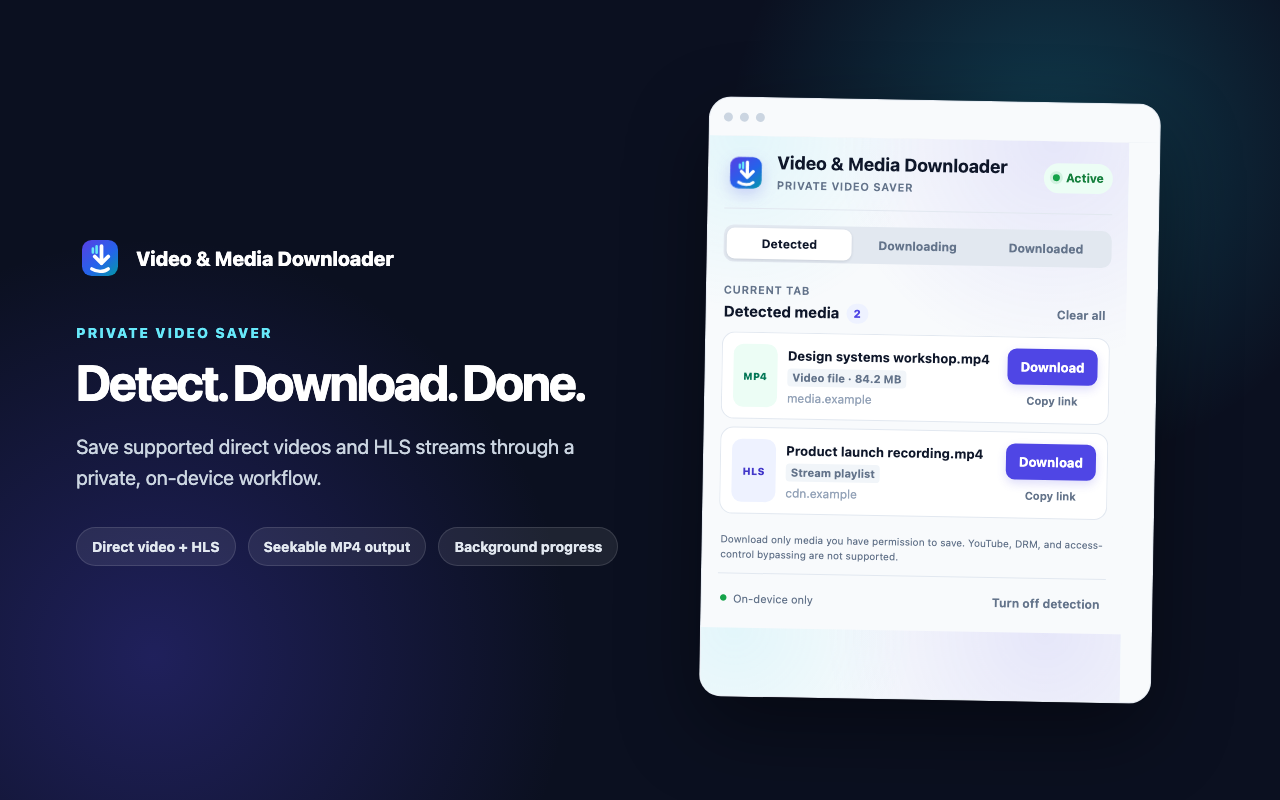
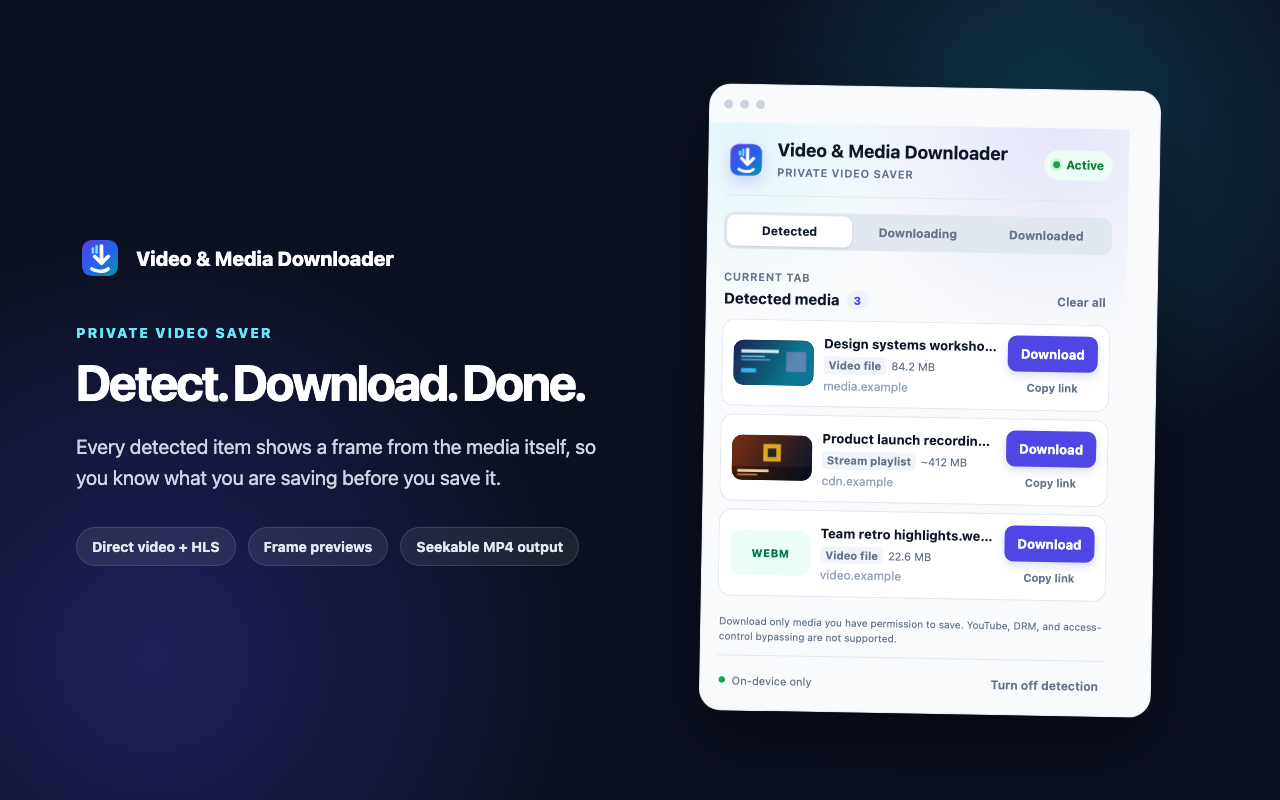
update screenshots and publish to firefox(reviewing)

diff --git a/store-assets/popup-preview.html b/store-assets/popup-preview.html
@@ -31,61 +31,144 @@
         document.querySelector(`#${name}-tab`).setAttribute("aria-selected", String(name === view));
       }
 
+      // Fictional media. The rows are built the way popup.js builds them, so a
+      // screenshot shows the real markup and stylesheet rather than a mock that
+      // drifts: a preview is an <img> inside the tile, the size is its own span
+      // beside the chips, and the job state is a class on .job-status.
       const items = view === "detected" ? [
         {
           action: "Download",
+          chips: ["Video file"],
           filename: "Design systems workshop.mp4",
           format: "MP4",
           host: "media.example",
-          meta: "Video file · 84.2 MB",
+          preview: "preview-frame-a.jpg",
+          size: "84.2 MB",
           type: "file"
         },
         {
           action: "Download",
+          chips: ["Stream playlist"],
           filename: "Product launch recording.mp4",
           format: "HLS",
           host: "cdn.example",
-          meta: "Stream playlist",
+          preview: "preview-frame-b.jpg",
+          size: "~412 MB",
           type: "playlist"
+        },
+        {
+          action: "Download",
+          chips: ["Video file"],
+          filename: "Team retro highlights.webm",
+          format: "WEBM",
+          host: "video.example",
+          size: "22.6 MB",
+          type: "file"
         }
       ] : [{
         action: view === "downloading" ? "63%" : "Again",
+        chips: view === "downloading"
+          ? ["Downloading", "Background"]
+          : ["Downloaded"],
         filename: "Product launch recording.mp4",
         format: "MP4",
         host: "cdn.example",
-        meta: view === "downloading" ? "Downloading · Background" : "Downloaded",
+        preview: "preview-frame-b.jpg",
         progress: view === "downloading" ? 63 : 100,
+        size: "412 MB",
+        state: view === "downloading" ? "downloading" : "complete",
         status: view === "downloading"
-          ? "Converting segment 38 of 60 to MP4…"
+          ? "Converting segment 38 of 60 to MP4… 1 min left"
           : "Saved to Downloads.",
         type: "file"
       }];
 
       document.querySelector("#count").textContent = String(items.length);
       const list = document.querySelector("#media-list");
+
       for (const item of items) {
         const row = document.createElement("li");
         row.className = "media-item";
-        row.innerHTML = `
-          <div class="format-tile ${item.type}">${item.format}</div>
-          <div class="media-details">
-            <div class="media-name">${item.filename}</div>
-            <div class="media-meta"><span class="meta-chip">${item.meta}</span></div>
-            <div class="media-host">${item.host}</div>
-          </div>
-          <div class="media-actions">
-            <button class="primary" type="button">${item.action}</button>
-            <button class="copy-button${view === "downloading" ? " cancel-button" : ""}" type="button">
-              ${view === "downloading" ? "Cancel" : "Copy link"}
-            </button>
-          </div>`;
-        if (item.status) {
-          row.insertAdjacentHTML("beforeend", `
-            <div class="job-status ${view === "downloaded" ? "complete" : ""}">
-              <span>${item.status}</span>
-              <span class="job-progress"><span style="width:${item.progress}%"></span></span>
-            </div>`);
+
+        const format = document.createElement("div");
+        format.className = `format-tile ${item.type}`;
+        if (item.preview) {
+          const thumbnail = document.createElement("img");
+          thumbnail.alt = "";
+          thumbnail.src = item.preview;
+          format.classList.add("has-preview");
+          format.append(thumbnail);
+        } else {
+          format.textContent = item.format;
         }
+
+        const details = document.createElement("div");
+        details.className = "media-details";
+
+        const name = document.createElement("div");
+        name.className = "media-name";
+        name.textContent = item.filename;
+
+        const meta = document.createElement("div");
+        meta.className = "media-meta";
+        for (const chip of item.chips) {
+          const span = document.createElement("span");
+          span.className = "meta-chip";
+          span.textContent = chip;
+          meta.append(span);
+        }
+        if (item.size) {
+          const size = document.createElement("span");
+          size.textContent = item.size;
+          meta.append(size);
+        }
+
+        const host = document.createElement("div");
+        host.className = "media-host";
+        host.textContent = item.host;
+
+        const actions = document.createElement("div");
+        actions.className = "media-actions";
+
+        const primary = document.createElement("button");
+        primary.className = "primary";
+        primary.type = "button";
+        primary.textContent = item.action;
+        primary.disabled = view === "downloading";
+
+        const secondary = document.createElement("button");
+        secondary.className = view === "downloading"
+          ? "copy-button cancel-button"
+          : "copy-button";
+        secondary.type = "button";
+        secondary.textContent = view === "downloading" ? "Cancel" : "Copy link";
+
+        actions.append(primary, secondary);
+        details.append(name, meta, host);
+        row.append(format, details, actions);
+
+        if (item.status) {
+          const jobStatus = document.createElement("div");
+          jobStatus.className = `job-status ${item.state}`;
+
+          const jobLabel = document.createElement("span");
+          jobLabel.textContent = item.status;
+
+          const jobProgress = document.createElement("span");
+          jobProgress.className = "job-progress";
+          jobProgress.setAttribute("aria-label", "Download progress");
+          jobProgress.setAttribute("aria-valuemax", "100");
+          jobProgress.setAttribute("aria-valuemin", "0");
+          jobProgress.setAttribute("aria-valuenow", String(item.progress));
+          jobProgress.setAttribute("role", "progressbar");
+          const jobProgressBar = document.createElement("span");
+          jobProgressBar.style.width = `${item.progress}%`;
+          jobProgress.append(jobProgressBar);
+
+          jobStatus.append(jobLabel, jobProgress);
+          row.append(jobStatus);
+        }
+
         list.append(row);
       }
     </script>

diff --git a/store-assets/screenshot.html b/store-assets/screenshot.html
@@ -92,6 +92,8 @@
       iframe {
         border: 0;
         display: block;
+        /* Replaced with the popup's own content height once it loads, so no
+           view shows a scrollbar or a band of dead space below the footer. */
         height: 560px;
         width: 420px;
       }
@@ -104,7 +106,7 @@
         <img src="../icon.svg" alt="">
         <span>Video &amp; Media Downloader</span>
       </div>
-      <div class="eyebrow">Private video saver</div>
+      <div id="eyebrow" class="eyebrow">Private video saver</div>
       <h1 id="headline">Detect. Download. Done.</h1>
       <p id="lead" class="lead">
         Save supported direct videos and HLS streams through a private, on-device workflow.
@@ -122,13 +124,52 @@
       </div>
     </section>
     <script>
+      // "free" is a framing of the detected view, not a fourth popup view: the
+      // popup has no such state, so only the copy beside it changes.
+      const copy = {
+        detected: {
+          eyebrow: "Private video saver",
+          features: ["Direct video + HLS", "Frame previews", "Seekable MP4 output"],
+          headline: "Detect. Download. Done.",
+          lead: "Every detected item shows a frame from the media itself, so you know what you are saving before you save it.",
+          popup: "detected"
+        },
+        downloading: {
+          eyebrow: "Private video saver",
+          features: ["Cross-tab progress", "Cancel anytime", "Survives tab close"],
+          headline: "Follow every download.",
+          lead: "Progress stays visible across tabs, and downloads continue after the source tab closes.",
+          popup: "downloading"
+        },
+        free: {
+          eyebrow: "Free and on-device",
+          features: ["No account", "No subscription", "No ads or telemetry"],
+          headline: "Free. All of it.",
+          lead: "No account, no subscription, no ads. Every feature is available to everyone, and nothing is sent to the developer.",
+          // The downloaded view, so the three store screenshots show three
+          // different states rather than repeating the detected list twice.
+          popup: "downloaded"
+        }
+      };
+
       const view = new URLSearchParams(location.search).get("view") || "detected";
-      document.querySelector("#popup").src = `popup-preview.html?view=${view}`;
-      if (view === "downloading") {
-        document.querySelector("#headline").textContent = "Follow every download.";
-        document.querySelector("#lead").textContent =
-          "Progress stays visible across tabs, and downloads continue after the source tab closes.";
-      }
+      const active = copy[view] ?? copy.detected;
+      const frame = document.querySelector("#popup");
+      // The popup builds its rows from a module script, so the height is only
+      // final after that has run — hence rAF rather than reading it on load.
+      frame.addEventListener("load", () => {
+        requestAnimationFrame(() => {
+          frame.style.height = `${frame.contentDocument.body.scrollHeight}px`;
+          document.body.dataset.ready = "true";
+        });
+      });
+      frame.src = `popup-preview.html?view=${active.popup}`;
+      document.querySelector("#eyebrow").textContent = active.eyebrow;
+      document.querySelector("#headline").textContent = active.headline;
+      document.querySelector("#lead").textContent = active.lead;
+      document.querySelector(".features").innerHTML = active.features
+        .map((feature) => `<span class="feature">${feature}</span>`)
+        .join("");
     </script>
   </body>
 </html>

diff --git a/store-assets/README.md b/store-assets/README.md
@@ -4,13 +4,46 @@ These sizes are accepted by both the Chrome Web Store and Microsoft Edge
 Add-ons. Reuse the same files for both listings.
 
 - `icon-128.png`: required store icon
-- `screenshot-detected.png`: current detected-media experience, 1280×800
-- `screenshot-downloading.png`: current cross-tab progress experience, 1280×800
+- `screenshot-detected.png`: detected media with frame previews, 1280×800
+- `screenshot-downloading.png`: cross-tab progress, 1280×800
+- `screenshot-free.png`: free/no-account framing over the downloaded list, 1280×800
 - `small-promo-440x280.png`: required promotional tile
 - `marquee-1400x560.png`: optional marquee promotional image
 
-The screenshots use the real popup markup and stylesheet with fictional example
-media. Regenerate them from `screenshot.html` after material UI changes.
+The three screenshots deliberately show three different popup states — detected,
+downloading, downloaded — so no two repeat the same list.
+
+## Regenerating the screenshots
+
+`popup-preview.html` builds its rows the way `popup.js` builds them, against the
+real `popup.html` and `popup.css`, so a screenshot shows the shipping UI rather
+than a mock that drifts from it. The media is fictional; `preview-frame-a.jpg`
+and `preview-frame-b.jpg` are illustrative 16:9 frames standing in for the
+previews the extension decodes from the media itself.
+
+Regenerate after any material UI change. `popup-preview.html` fetches
+`popup.html`, so it needs to be served over HTTP — `file://` fails on CORS.
+
+```sh
+python3 -m http.server 8931
+```
+
+Then, from another shell, with any headless Chromium-based browser:
+
+```sh
+for view in detected downloading free; do
+  "/Applications/Google Chrome.app/Contents/MacOS/Google Chrome" \
+    --headless --disable-gpu --hide-scrollbars --force-device-scale-factor=1 \
+    --window-size=1280,800 --virtual-time-budget=6000 \
+    --screenshot="store-assets/screenshot-$view.png" \
+    "http://localhost:8931/store-assets/screenshot.html?view=$view"
+done
+```
+
+`--force-device-scale-factor=1` keeps the output at exactly 1280×800, and
+`--virtual-time-budget` gives the popup's module script time to build the rows.
+The iframe takes its height from the loaded popup, so adding or removing a row
+will not reintroduce a scrollbar or a band of dead space.
 
 Firefox reuses the 1280×800 screenshots and the 32px/64px manifest icons.
 Safari reuses the screenshots and references `icon.svg` as its 512px extension

diff --git a/PUBLISHING.md b/PUBLISHING.md
@@ -152,8 +152,9 @@ and [temporary installation](https://developer.apple.com/documentation/safariser
 - Logo: `store-assets/icon-128.png`
 - Firefox manifest icons: `icons/icon-32.png` and `icons/icon-64.png`
 - Safari extension and generated app-icon source: `icon.svg` at manifest size 512
-- Screenshots: `store-assets/screenshot-detected.png` and
-  `store-assets/screenshot-downloading.png`
+- Screenshots: `store-assets/screenshot-detected.png`,
+  `store-assets/screenshot-downloading.png`, and
+  `store-assets/screenshot-free.png`
 - Small promotional tile: `store-assets/small-promo-440x280.png`
 - Large promotional tile: `store-assets/marquee-1400x560.png`
 
@@ -449,7 +450,7 @@ and [publishing flow](https://learn.microsoft.com/en-us/microsoft-edge/extension
   titles, download status, limited request headers, and same-host cookies.
   Declare that data is processed locally, is not sold, and is not used outside
   the extension's single purpose.
-- Upload `store-assets/icon-128.png`, both current 1280×800 screenshots, and
+- Upload `store-assets/icon-128.png`, all three current 1280×800 screenshots, and
   `store-assets/small-promo-440x280.png`. The 1400×560 marquee is optional.
 - Test the packed ZIP on clean Chrome profiles on macOS, Windows, and Linux:
   direct MP4/WebM, TS-HLS, fMP4-HLS, cancel, retry, source-tab closure,
